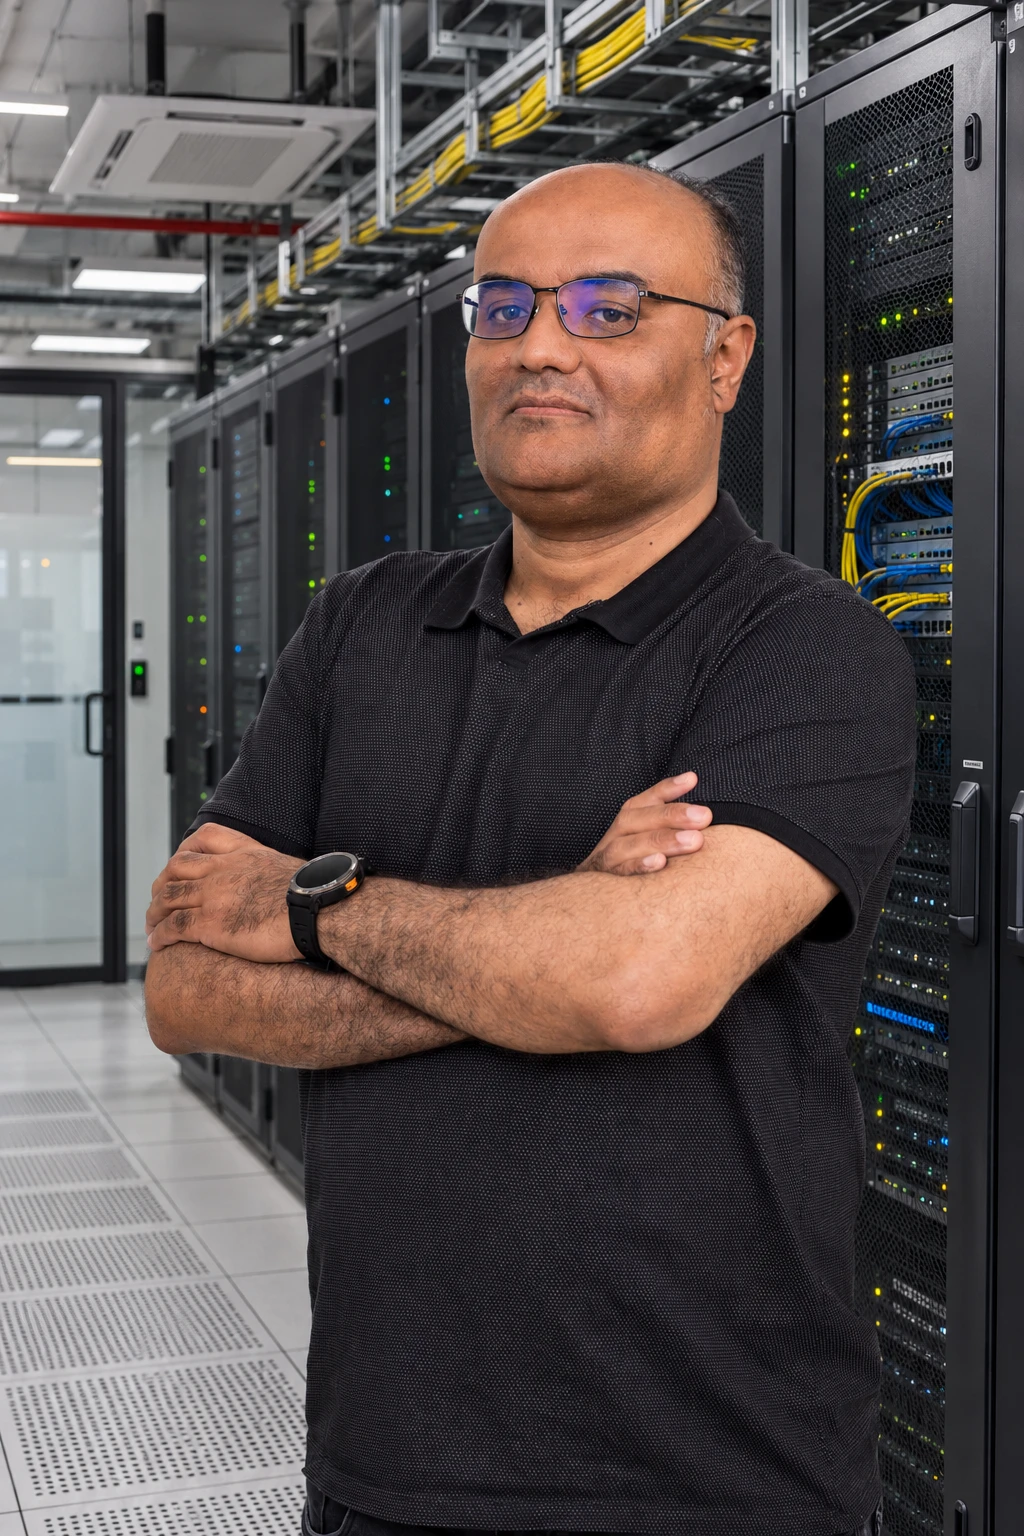
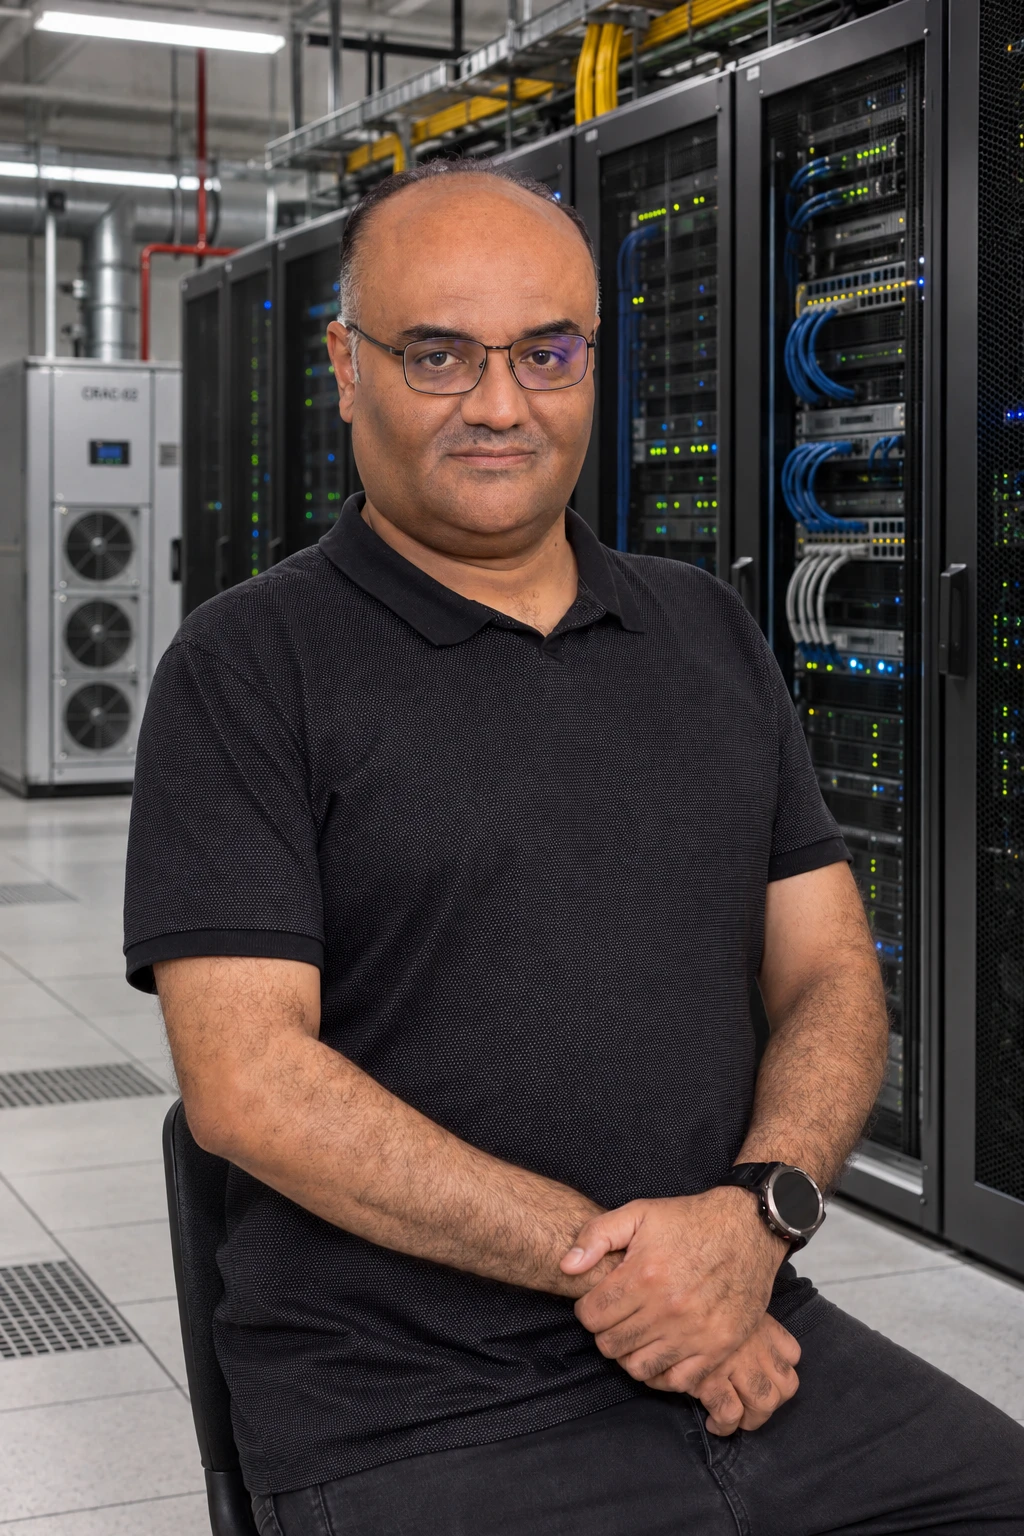
fix(home): replace CPD portrait with distinct seated angle

diff --git a/Currículo/frontend/src/app/page.tsx b/Currículo/frontend/src/app/page.tsx
@@ -160,7 +160,7 @@ export default async function HomePage() {
                 <div className="relative aspect-[3/4] w-full flex-grow min-h-[340px] overflow-hidden">
                   <Image
                     src="/images/elias-arquitetura-cpd.webp"
-                    alt="Elias Ribeiro dos Reis em pé com braços cruzados no Centro de Processamento de Dados (CPD)"
+                    alt="Elias Ribeiro dos Reis sentado em Centro de Processamento de Dados (CPD) com racks de servidores ao fundo"
                     fill
                     sizes="(max-width: 1024px) 100vw, 440px"
                     className="object-cover object-top"
